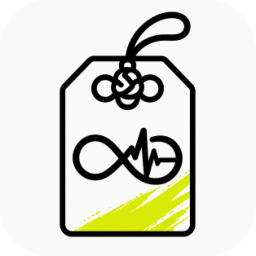
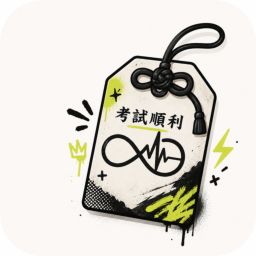
圖示改用細緻版原圖
前一版誤用了 np 倉庫的 icon.png（1254x1254 但為簡化版），
導致「考試順利」文字與噴漆裝飾都不見了。
改用 icon1.png（512x512，含完整細節）重新產生全部尺寸。

diff --git a/index.html b/index.html
@@ -9,19 +9,19 @@
 <meta name="theme-color" content="#f2dbe1" media="(prefers-color-scheme: light)">
 <meta name="theme-color" content="#221e1c" media="(prefers-color-scheme: dark)">
 <link rel="manifest" href="manifest.webmanifest">
-<link rel="apple-touch-icon" sizes="152x152" href="icons/icon-152.png?v=20260731g">
-<link rel="apple-touch-icon" sizes="167x167" href="icons/icon-167.png?v=20260731g">
-<link rel="apple-touch-icon" sizes="180x180" href="icons/icon-180.png?v=20260731g">
-<link rel="apple-touch-icon-precomposed" href="icons/icon-180.png?v=20260731g">
-<link rel="icon" type="image/png" sizes="192x192" href="icons/icon-192.png?v=20260731g">
-<link rel="icon" type="image/png" sizes="512x512" href="icons/icon-512.png?v=20260731g">
+<link rel="apple-touch-icon" sizes="152x152" href="icons/icon-152.png?v=20260731h">
+<link rel="apple-touch-icon" sizes="167x167" href="icons/icon-167.png?v=20260731h">
+<link rel="apple-touch-icon" sizes="180x180" href="icons/icon-180.png?v=20260731h">
+<link rel="apple-touch-icon-precomposed" href="icons/icon-180.png?v=20260731h">
+<link rel="icon" type="image/png" sizes="192x192" href="icons/icon-192.png?v=20260731h">
+<link rel="icon" type="image/png" sizes="512x512" href="icons/icon-512.png?v=20260731h">
 <meta name="apple-mobile-web-app-capable" content="yes">
 <meta name="apple-mobile-web-app-title" content="麻醉題庫">
 <meta name="mobile-web-app-capable" content="yes">
 <link rel="preconnect" href="https://fonts.googleapis.com">
 <link rel="preconnect" href="https://fonts.gstatic.com" crossorigin>
 <link rel="stylesheet" href="https://fonts.googleapis.com/css2?family=Noto+Sans+TC:wght@400;600;700&family=Noto+Serif+TC:wght@500;700&display=swap">
-<link rel="stylesheet" href="css/app.css?v=20260731g">
+<link rel="stylesheet" href="css/app.css?v=20260731h">
 </head>
 <body>
 
@@ -206,10 +206,10 @@
 </div>
 <div class="toast" id="toast"></div>
 
-<script src="js/store.js?v=20260731g"></script>
-<script src="js/data.js?v=20260731g"></script>
-<script src="js/quiz.js?v=20260731g"></script>
-<script src="js/views.js?v=20260731g"></script>
-<script src="js/app.js?v=20260731g"></script>
+<script src="js/store.js?v=20260731h"></script>
+<script src="js/data.js?v=20260731h"></script>
+<script src="js/quiz.js?v=20260731h"></script>
+<script src="js/views.js?v=20260731h"></script>
+<script src="js/app.js?v=20260731h"></script>
 </body>
 </html>

diff --git a/js/app.js b/js/app.js
@@ -233,7 +233,7 @@ function importData(input) {
   r.readAsText(f);
 }
 
-const CACHE_NAME = 'anes-np-v8';   // 必須與 sw.js 的 CACHE 一致
+const CACHE_NAME = 'anes-np-v9';   // 必須與 sw.js 的 CACHE 一致
 
 /** 核心資源（不含圖片）。由頁面確保入快取，不倚賴 service worker 的安裝時機——
     使用者清過瀏覽器資料、或 sw.js 未改版時 install 不會重跑，靠這裡補齊。 */

diff --git a/sw.js b/sw.js
@@ -5,8 +5,8 @@
    VERSION 一改，activate 時舊快取整個清掉，不會留下上一版的殘骸。
    app.js 的 CACHE_NAME 也必須與這裡的 CACHE 一致。 */
 
-const VERSION = 'v8';
-const ASSET_V = '20260731g';   // 與 index.html 的 ?v= 一致
+const VERSION = 'v9';
+const ASSET_V = '20260731h';   // 與 index.html 的 ?v= 一致
 const CACHE = `anes-np-${VERSION}`;
 
 const YEARS = [109, 110, 111, 112, 113, 114];
